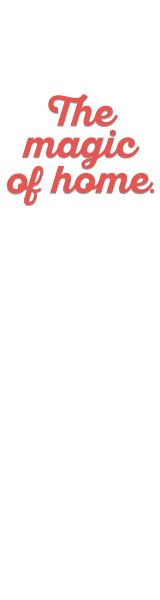
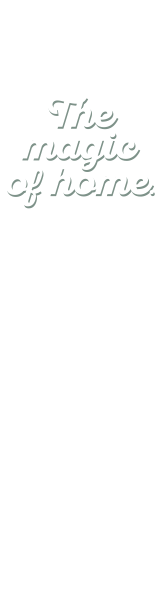
built nest protect 160x600

Changed region(s): [[0.0312, 0.15, 0.9688, 0.36]]

diff --git a/PROTECT/160x600/Animation.js b/PROTECT/160x600/Animation.js
@@ -43,8 +43,8 @@ home_animation = (function() {
 				Enabler.exit("clickTag1");
 			});
 	
-		TweenLite.to(product_text, 0, {scaleX:1, scaleY:1});
-		TweenLite.to(bg, 0, {scaleX:1.25, scaleY:1.25});
+		// TweenLite.to(product_text, 0, {scaleX:1, scaleY:1});
+		// TweenLite.to(bg, 0, {scaleX:1.25, scaleY:1.25});
 
 		frame1();
 
@@ -54,10 +54,9 @@ home_animation = (function() {
 		
 	function frame1()
 	{
-		TweenLite.to(first_text, 2, {top:-300, delay: 3});
-		TweenLite.to(bgMask, 1, {opacity:0, delay:3});
-		TweenLite.to(product_text, 1, {top:-37, left:-47, scaleX:.65, scaleY:.65, delay:3});
-		TweenLite.to(bg, 1, {top:-20, scaleX:1, scaleY:1, delay:3});
+		TweenLite.to(first_text, 2, {opacity:0, top:-300, delay: 3});
+		TweenLite.to(product_text, 1, {top:-60, scaleX:.72, scaleY:.72, delay:3});
+		TweenLite.to(bg, 1, {top:-110, scaleX:1, scaleY:1, delay:3});
 
 		TweenLite.delayedCall(3, frame2);
 	}
@@ -66,8 +65,7 @@ home_animation = (function() {
 	{
 		// slide up white bg
 		TweenLite.to(white_BG, 1, {top:420});
-		TweenLite.to(logo, 1, {opacity:1, delay:1.5});
-		TweenLite.to(bgMask2, 1, {opacity:1, delay:0});		
+		TweenLite.to(logo, 1, {opacity:1, delay:1.5});	
 		TweenLite.to(second_text, 3, {opacity:1, delay:1, ease: Expo.easeOut});		
 		TweenLite.to(third_text, 5, {opacity:1, delay:2.6, ease: Expo.easeOut});	
 		TweenLite.delayedCall(4.5, frame3);	

diff --git a/PROTECT/160x600/160x600.html b/PROTECT/160x600/160x600.html
@@ -14,8 +14,6 @@
 <!-- Frame one --> 
 <div id="first_text"><img src="first_text.png"></div>
 <div id="product_text"><img src="product.png"></div>
-<div id="bgMask"><img src="bgMask.png"></div>
-<div id="bgMask2"><img src="bgMask2.png"></div>
 <div id="second_text"><img src="second_text.png"></div>
 <div id="third_text"><img src="third_text.png"></div>
 <div id="buy_now_over"><img src="buy_now_over.png"></div>

diff --git a/PROTECT/160x600/style.css b/PROTECT/160x600/style.css
@@ -54,23 +54,17 @@ z-index:2;
 
 #product_text {
 position: absolute;
-left:-45px;
+left:-21px;
 top:0px;
 z-index:-1;
 }
 
-#second_text, #third_text, #buy_now, #logo, #bgMask2{
+#second_text, #third_text, #buy_now, #logo{
 position: absolute;
 left:0px;
 top:0px;	
 opacity: 0;
 z-index:1;
-}
-#bgMask{
-	position: absolute;
-	left:0px;
-	top:0px;
-	z-index:1;
 }
 
 #buy_now_over {
